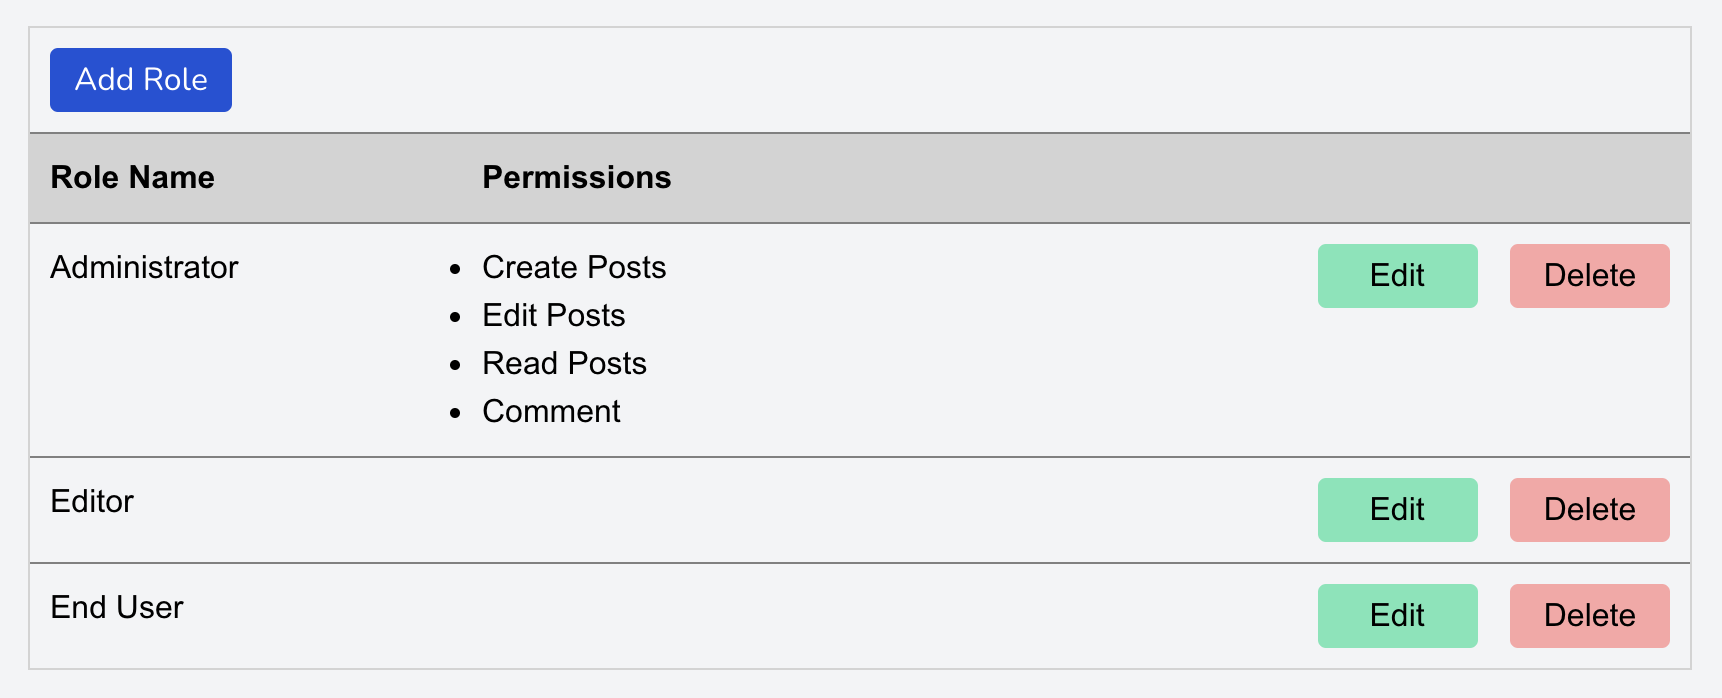
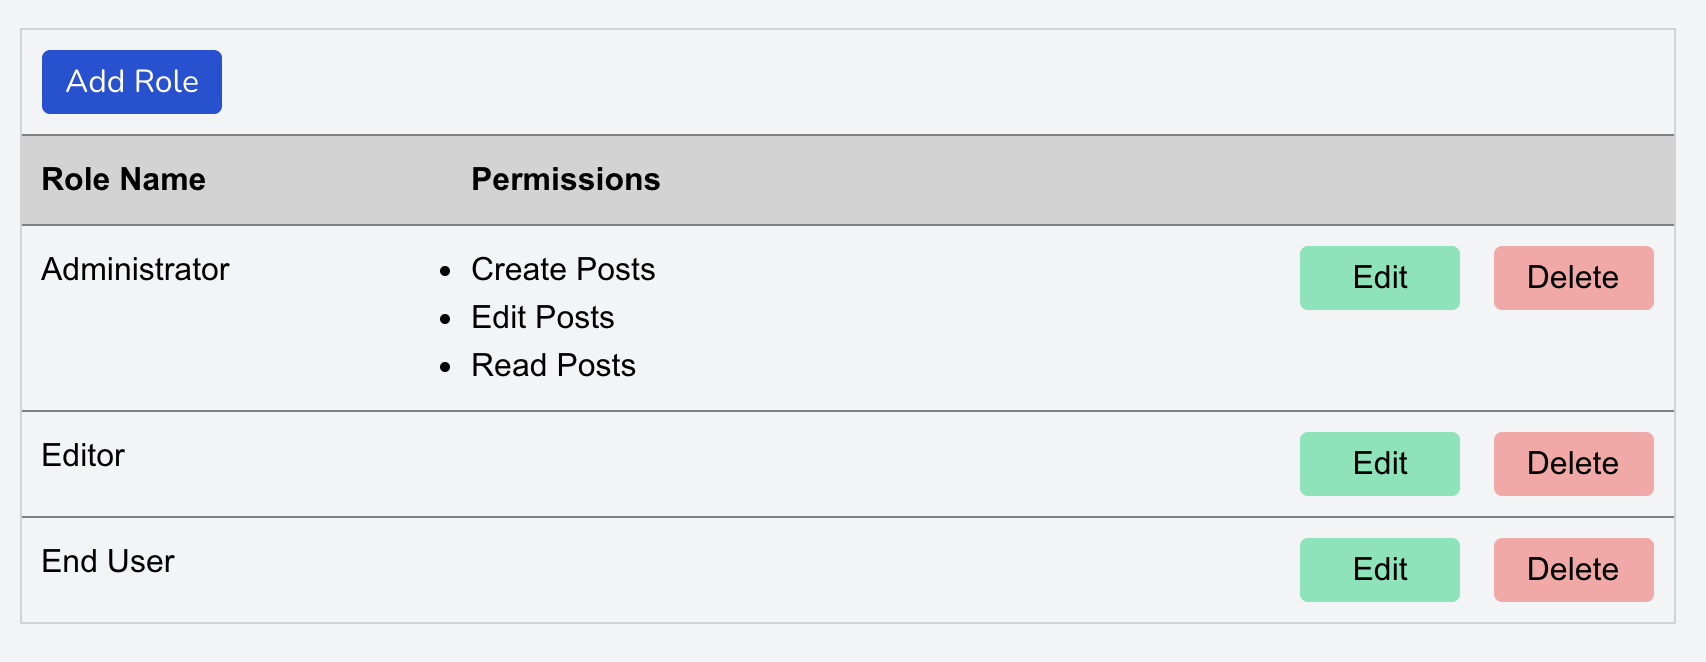
Update QuickStart and screenshot.

Changed region(s): [[0.0, 0.0302, 0.9941, 0.9668], [0.0, 0.7553, 0.1243, 0.9063]]

diff --git a/app/Console/Commands/QuickStart.php b/app/Console/Commands/QuickStart.php
@@ -4,6 +4,7 @@ namespace App\Console\Commands;
 
 use App\Models\User;
 use Illuminate\Console\Command;
+use Illuminate\Support\Facades\Log;
 use Spatie\Permission\Exceptions\PermissionAlreadyExists;
 use Spatie\Permission\Exceptions\RoleAlreadyExists;
 use Spatie\Permission\Exceptions\RoleDoesNotExist;
@@ -71,14 +72,17 @@ class QuickStart extends Command
 
         if ($this->createRolesAndPermissions()) {
             try {
-                $user->assignRole('Administrator');
+                $role = Role::findByName('Administrator', 'web');
+                $user->assignRole($role);
             } catch (RoleDoesNotExist $e) {
 
             }
 
-            collect(self::SAMPLE_PERMISSIONS)->each(static function (string $permissionName) use ($user) {
+            collect(self::SAMPLE_PERMISSIONS)->each(static function (string $permissionName) use ($role) {
                 try {
-                    $user->givePermissionTo($permissionName);
+                    if ($permissionName !== 'Comment') {
+                        $role->givePermissionTo($permissionName);
+                    }
                 } catch (PermissionAlreadyExists $e) {
 
                 }
